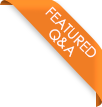
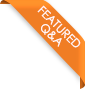
Feature image changes Be the first comment and answer changes

diff --git a/src/main/webapp/assets/css/by_quad.css b/src/main/webapp/assets/css/by_quad.css
@@ -73,13 +73,19 @@
 }
 .add-comment-FC, .add-comment-FC .text
 {
-	background:#E87441 !important;
+	background:url('../img/icons/comment_b.jpg?versionTimeStamp=%PROJECT_VERSION%') !important;
 	color:#fff !important;
 }
 .add-comment-FA, .add-comment-FA .text
 {
-	background:#00b050 !important;
+	background:url('../img/icons/orange_bg.jpg?versionTimeStamp=%PROJECT_VERSION%') !important;
 	color:#fff !important;
+}
+.add-comment-FA .icon-answer:before {
+    content: url('../img/icons/answer-white.png?versionTimeStamp=%PROJECT_VERSION%');
+}
+.add-comment-FC .icon-speech {
+    margin-top:4px !important;
 }
 .news-v3 .post-shares li span {
 	font-size: 11px;
@@ -142,7 +148,7 @@
 	min-width: 45px;
 	text-align: left;
 	margin-left: 2px;
-	background: url('../img/icons/button-gray.jpg')
+	background: url('../img/icons/button-gray.jpg?versionTimeStamp=%PROJECT_VERSION%')
 }
 
 
@@ -211,25 +217,25 @@
 }
 
 .add-comment .rounded-xicon-speech {
-	background: url('../img/cooment_normal.png');
+	background: url('../img/cooment_normal.png?versionTimeStamp=%PROJECT_VERSION%');
 	width: 20px !important;
 	height: 17px !important;
 	margin-top: 2px;
 }
 
 .add-comment .rounded-xicon-heart {
-	background: url('../img/like_normal.png');
+	background: url('../img/like_normal.png?versionTimeStamp=%PROJECT_VERSION%');
 	width: 19px !important;
 	height: 17px !important;
 	margin-top: 2px;
 }
 
 .add-comment .rounded-xicon-heartActive {
-	background: url('../img/like_active.png');
+	background: url('../img/like_active.png?versionTimeStamp=%PROJECT_VERSION%');
 }
 
 .add-comment .rounded-xfafa-pencil-square-o {
-	background: url('../img/share_active.png');
+	background: url('../img/share_active.png?versionTimeStamp=%PROJECT_VERSION%');
 	width: 17px !important;
 	height: 17px !important;
 	margin-top: 2px;
@@ -251,11 +257,11 @@
 
 .questionTag {
 	position: absolute;
-	 right: -7px;
+	 right: 10px;
     top: -6px;
 	z-index: 10px;
-	width:102px;
-	height:107px;
+	width:85px;
+	height:89px;
 }
 .questionTag img
 {
@@ -268,29 +274,29 @@
 }
 
 .icon-speech:before {
-	content: url('../img/icons/msg.png');
+	content: url('../img/icons/msg.png?versionTimeStamp=%PROJECT_VERSION%');
 }
 
 .icon-heart:before {
-	content: url('../img/icons/love.png');
+	content: url('../img/icons/love.png?versionTimeStamp=%PROJECT_VERSION%');
 }
 
 .icon-heart-active:before {
-	content: url('../img/icons/love-fill.png');
+	content: url('../img/icons/love-fill.png?versionTimeStamp=%PROJECT_VERSION%');
 }
 
 .icon-answer:before {
-	content: url('../img/icons/answer.png');
+	content: url('../img/icons/answer.png?versionTimeStamp=%PROJECT_VERSION%');
 }
 
 
 .icon-share:before {
-	content: url('../img/icons/share.png') !important;
+	content: url('../img/icons/share.png?versionTimeStamp=%PROJECT_VERSION%') !important;
 	
 }
 
 .icon-heart-active:before {
-	content: url('../img/like_active.png');
+	content: url('../img/like_active.png?versionTimeStamp=%PROJECT_VERSION%');
 }
 
 .by_blog_author .articles-story p img {
@@ -357,9 +363,9 @@
 }
 
 .also-by-wrapper {
-	border-left: 1px solid #ccc;
+	border: 1px solid #ccc;
 	padding-bottom: 1px !important;
-	border-bottom: 1px solid #ccc;
+	border-top: 0px;
 }
 
 .also-by-content {

diff --git a/src/main/webapp/app/components/discuss/discussContentPanel.html b/src/main/webapp/app/components/discuss/discussContentPanel.html
@@ -8,10 +8,10 @@
          data-link="articles.html" style="position: relative;">
          
           <div class="questionTag" ng-if="discuss.discussType == 'Q' && discuss.featured == true">
-        <img src="assets/img/feature/featured_Q&A.png" alt="image">
+        <img src="assets/img/feature/featured_Q&A.png?versionTimeStamp=%PROJECT_VERSION%" alt="image">
     </div>
      <div class="questionTag" ng-if="discuss.discussType == 'P' && discuss.featured == true">
-        <img src="assets/img/feature/featured.png" alt="image">
+        <img src="assets/img/feature/featured_post.png?versionTimeStamp=%PROJECT_VERSION%" alt="image">
     </div>
 
         <img src="assets/img/by.png" alt="image">

diff --git a/src/main/webapp/app/components/home/homePostsCard.html b/src/main/webapp/app/components/home/homePostsCard.html
@@ -12,7 +12,7 @@
     <!-- show if discuss is of type Article -->
     <div ng-click="go($event, 'id', article.id, article.discussType)" data-index="discussion-articles" class="blog-author margin-bottom-35 main-article by_blog_author" style="position:relative;">
          <div class="questionTag" ng-if="article.featured == true">
-        <img src="assets/img/feature/featured.png" alt="image">
+        <img src="assets/img/feature/featured_post.png?versionTimeStamp=%PROJECT_VERSION%" alt="image">
     </div>
         <img src="assets/img/by.png" alt="image" >
         <div class="article-info dp-inline-block">

diff --git a/src/main/webapp/app/components/home/homeQuestionCard.html b/src/main/webapp/app/components/home/homeQuestionCard.html
@@ -17,7 +17,7 @@
     <!-- show if discuss is of type Article -->
     <div ng-click="go($event, 'id', question.id, question.discussType)" data-index="discussion-articles" class="blog-author margin-bottom-35 main-article by_blog_author" style="position:relative;">
         <div class="questionTag" ng-if="question.featured == true">
-        <img src="assets/img/feature/featured_Q&A.png" alt="image">
+        <img src="assets/img/feature/featured_Q&A.png?versionTimeStamp=%PROJECT_VERSION%" alt="image">
     </div>
         <img src="assets/img/by.png" alt="image" >
         

diff --git a/src/main/webapp/assets/css/services.css b/src/main/webapp/assets/css/services.css
@@ -23,13 +23,13 @@
 }
 .serviceFeatured
 {
-	width:102px;
-	height:107px;
-	background:url('../img/feature/featured.png');
+	width:85px;
+	height:89px;
+	background:url('../img/feature/service.png?versionTimeStamp=%PROJECT_VERSION%');
 	position:absolute;
 	z-index:10;
-	top: -5px;
-    right: -6px;
+	top: -4px;
+    right: -5px;
 }
 .service-card[data-index="discussion-articles"] {
 	cursor: pointer;
